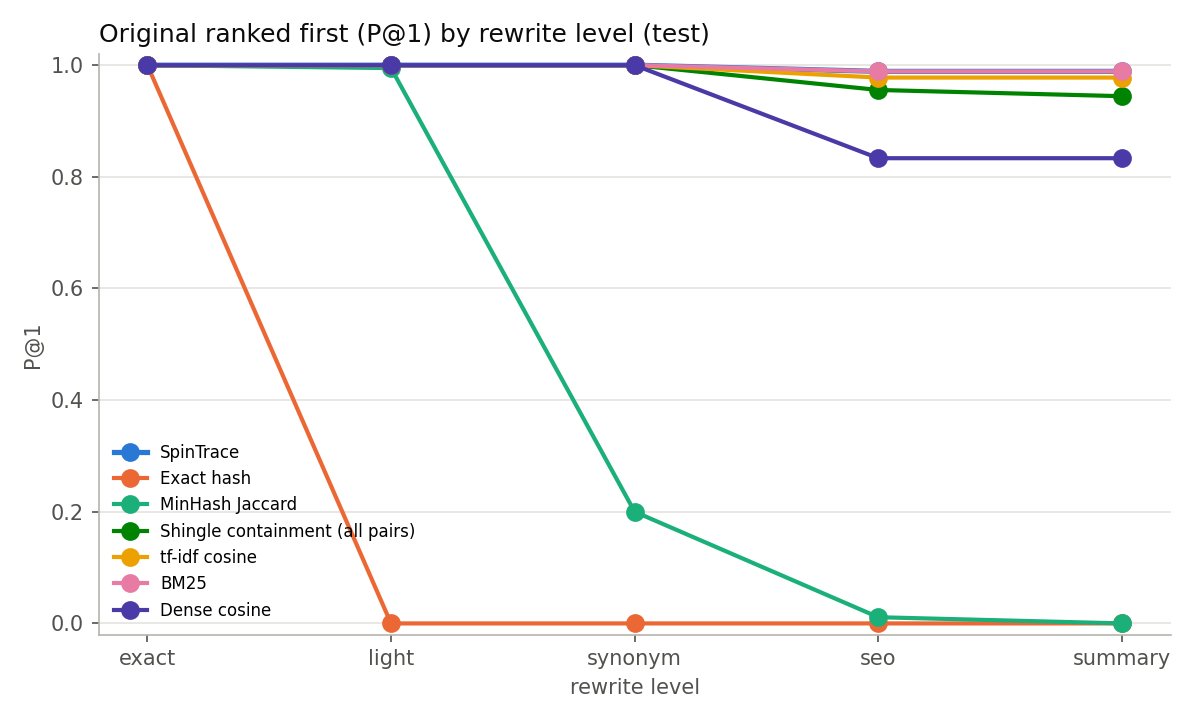
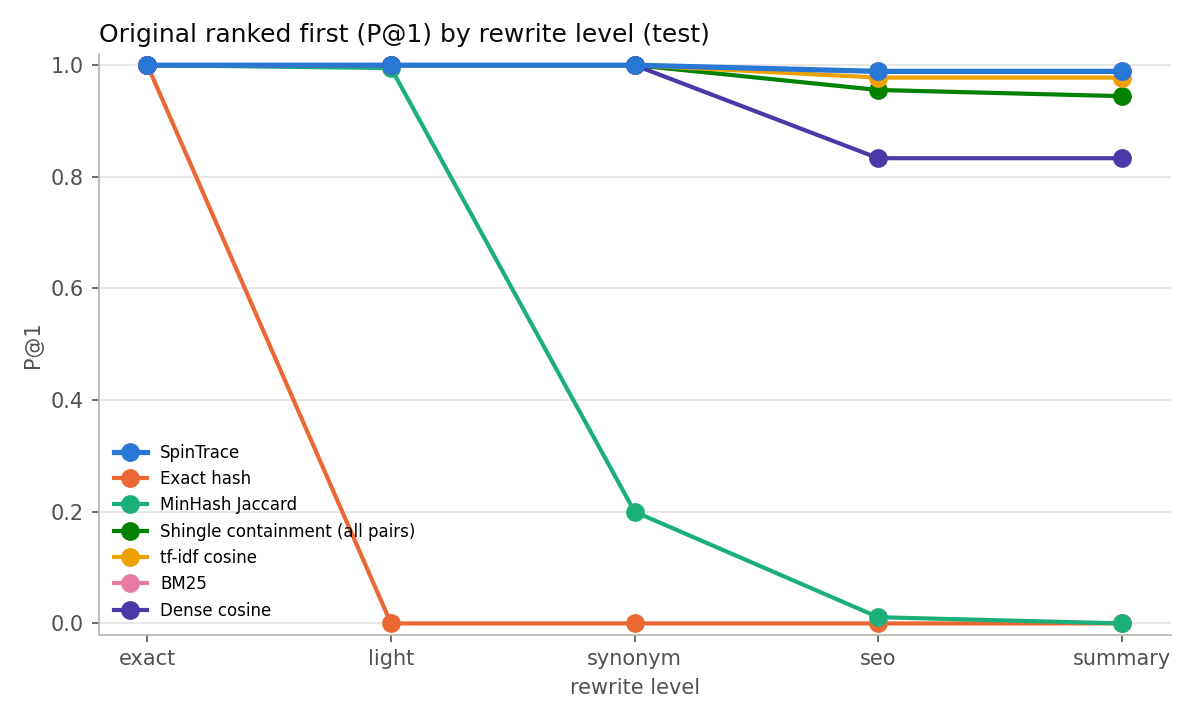
Draw the SpinTrace line above the baselines

Changed region(s): [[0.0925, 0.0611, 0.9558, 0.1222]]

diff --git a/spintrace/eval/report.py b/spintrace/eval/report.py
@@ -337,7 +337,7 @@ def charts(det_rows, pr_data, rank_rows, abl_rows):
     ends = []
     for m in ["spintrace"] + BASELINES:
         ys = [next((r["f1"] for r in det_rows if r["method"] == m and r["level"] == l), np.nan) for l in levels]
-        ax.plot(levels, ys, marker="o", markersize=8, linewidth=2.5 if m == "spintrace" else 2, color=COLORS[m],
+        ax.plot(levels, ys, marker="o", markersize=8, linewidth=2.5 if m == "spintrace" else 2, color=COLORS[m], zorder=5 if m == "spintrace" else 2,
                 label=LABELS[m])
         ends.append([ys[-1], LABELS[m]])
     _end_labels(ax, ends, len(levels) - 1)
@@ -351,7 +351,7 @@ def charts(det_rows, pr_data, rank_rows, abl_rows):
 
     fig, ax = plt.subplots(figsize=(6, 5), dpi=150)
     for m, (p, r) in pr_data.items():
-        ax.plot(r, p, linewidth=2.5 if m == "spintrace" else 2, color=COLORS[m], label=LABELS[m])
+        ax.plot(r, p, linewidth=2.5 if m == "spintrace" else 2, color=COLORS[m], zorder=5 if m == "spintrace" else 2, label=LABELS[m])
     ax.set_xlim(0, 1.01)
     ax.set_ylim(0, 1.02)
     _style(ax, "Precision-recall, all levels pooled (test)", "recall", "precision")
@@ -363,7 +363,7 @@ def charts(det_rows, pr_data, rank_rows, abl_rows):
     fig, ax = plt.subplots(figsize=(8, 4.8), dpi=150)
     for m in ["spintrace"] + BASELINES:
         ys = [next((r["recall@1"] for r in rank_rows if r["method"] == m and r["level"] == l), np.nan) for l in levels]
-        ax.plot(levels, ys, marker="o", markersize=8, linewidth=2.5 if m == "spintrace" else 2, color=COLORS[m],
+        ax.plot(levels, ys, marker="o", markersize=8, linewidth=2.5 if m == "spintrace" else 2, color=COLORS[m], zorder=5 if m == "spintrace" else 2,
                 label=LABELS[m])
     ax.set_ylim(-0.02, 1.02)
     _style(ax, "Original ranked first (P@1) by rewrite level (test)", "rewrite level", "P@1")
